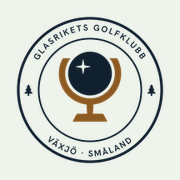
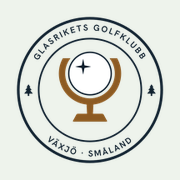
Glasriket: sigillet med vit boll i sidhuvud, sidfot och favikon (Eric: bollen är alltid vit)
Sigillet ritat om från klubbens uppdaterade källfiler (2026-10-27).

Claude-Session: https://claude.ai/code/session_01QQJTjhsrBRz82Tavtjx8Vf

Changed region(s): [[0.3611, 0.2778, 0.6389, 0.5278]]

diff --git a/hemsidor/glasriket/forbered.py b/hemsidor/glasriket/forbered.py
@@ -71,7 +71,7 @@ def sigill():
             sida.screenshot(path=str(png), omit_background=True)
             sida.close()
             im = Image.open(png).convert("RGBA")
-            for storlek in (96, 192):
+            for storlek in ((96, 192) if namn == "sigill" else (192,)):
                 im.resize((storlek, storlek), Image.LANCZOS).save(UT / "img" / f"{namn}-{storlek}.png", optimize=True)
             png.unlink()
         b.close()
